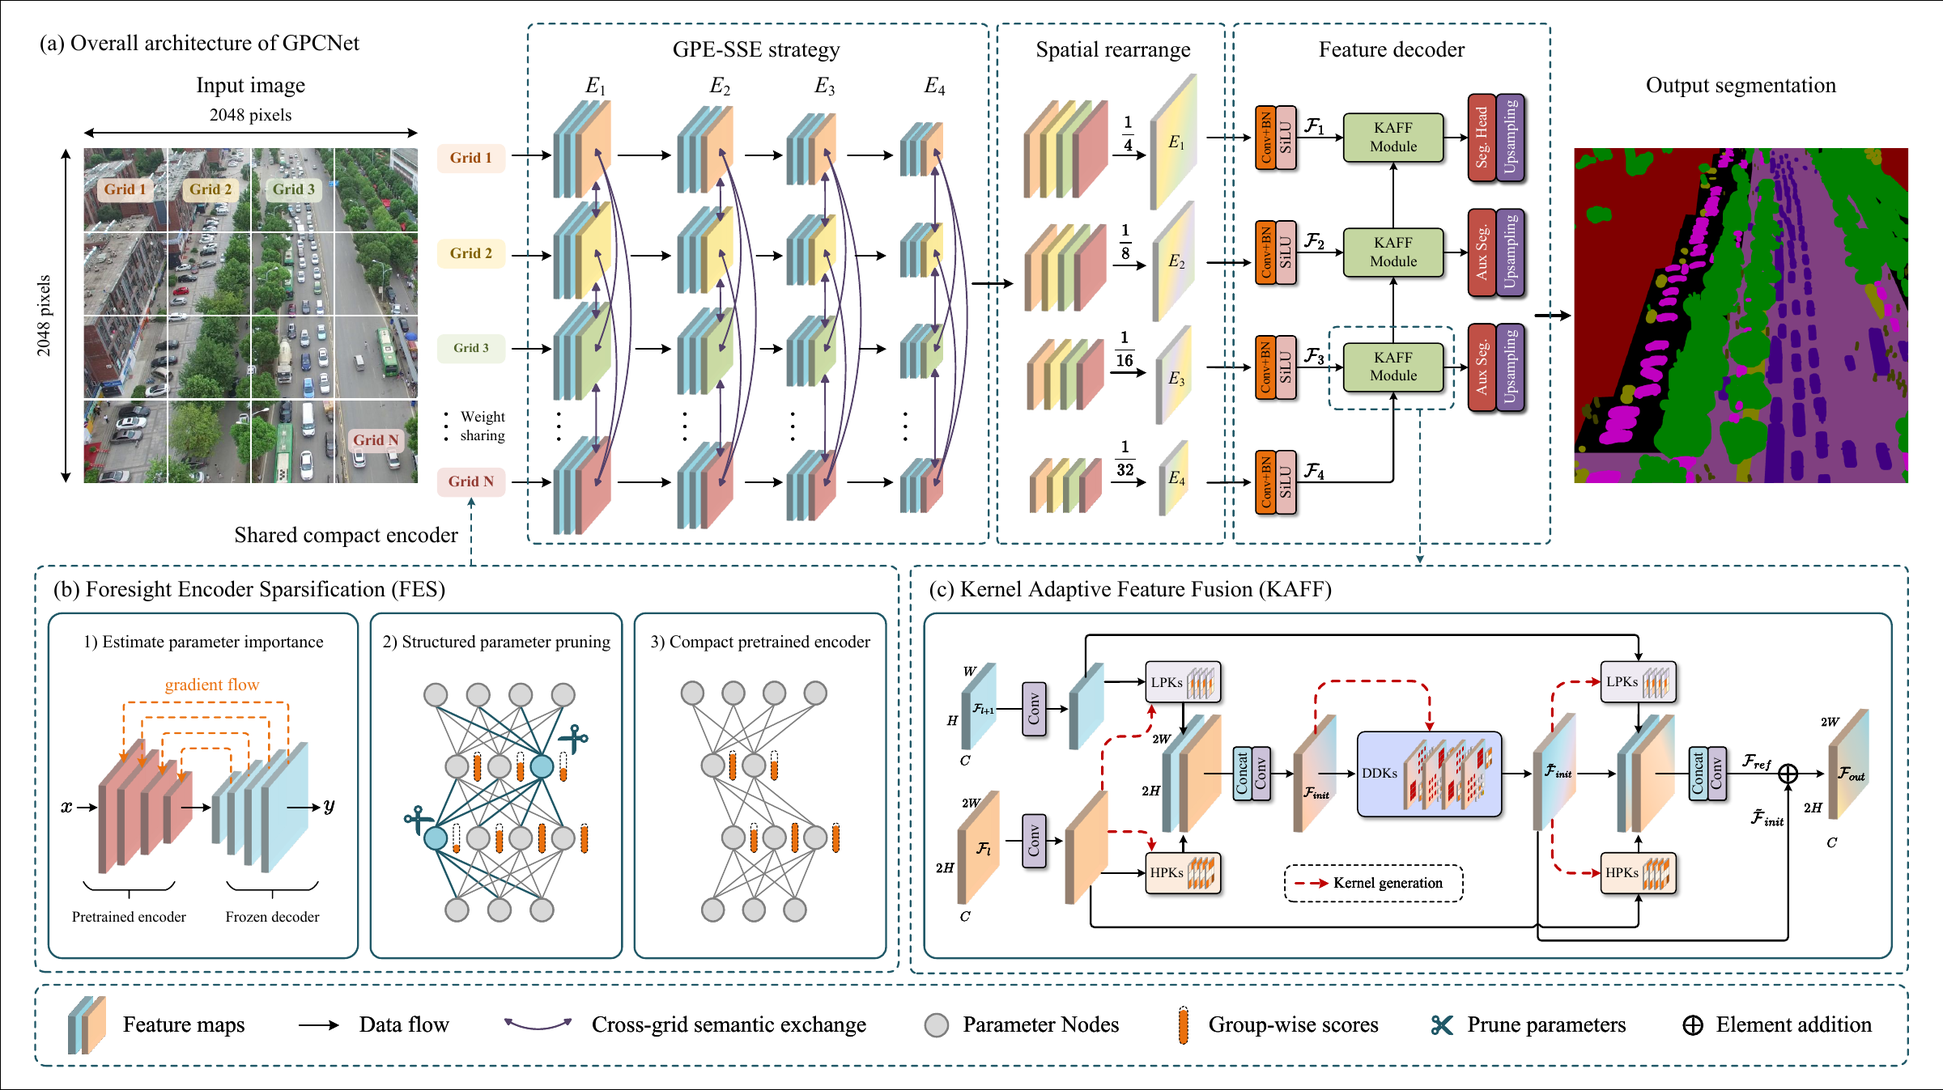
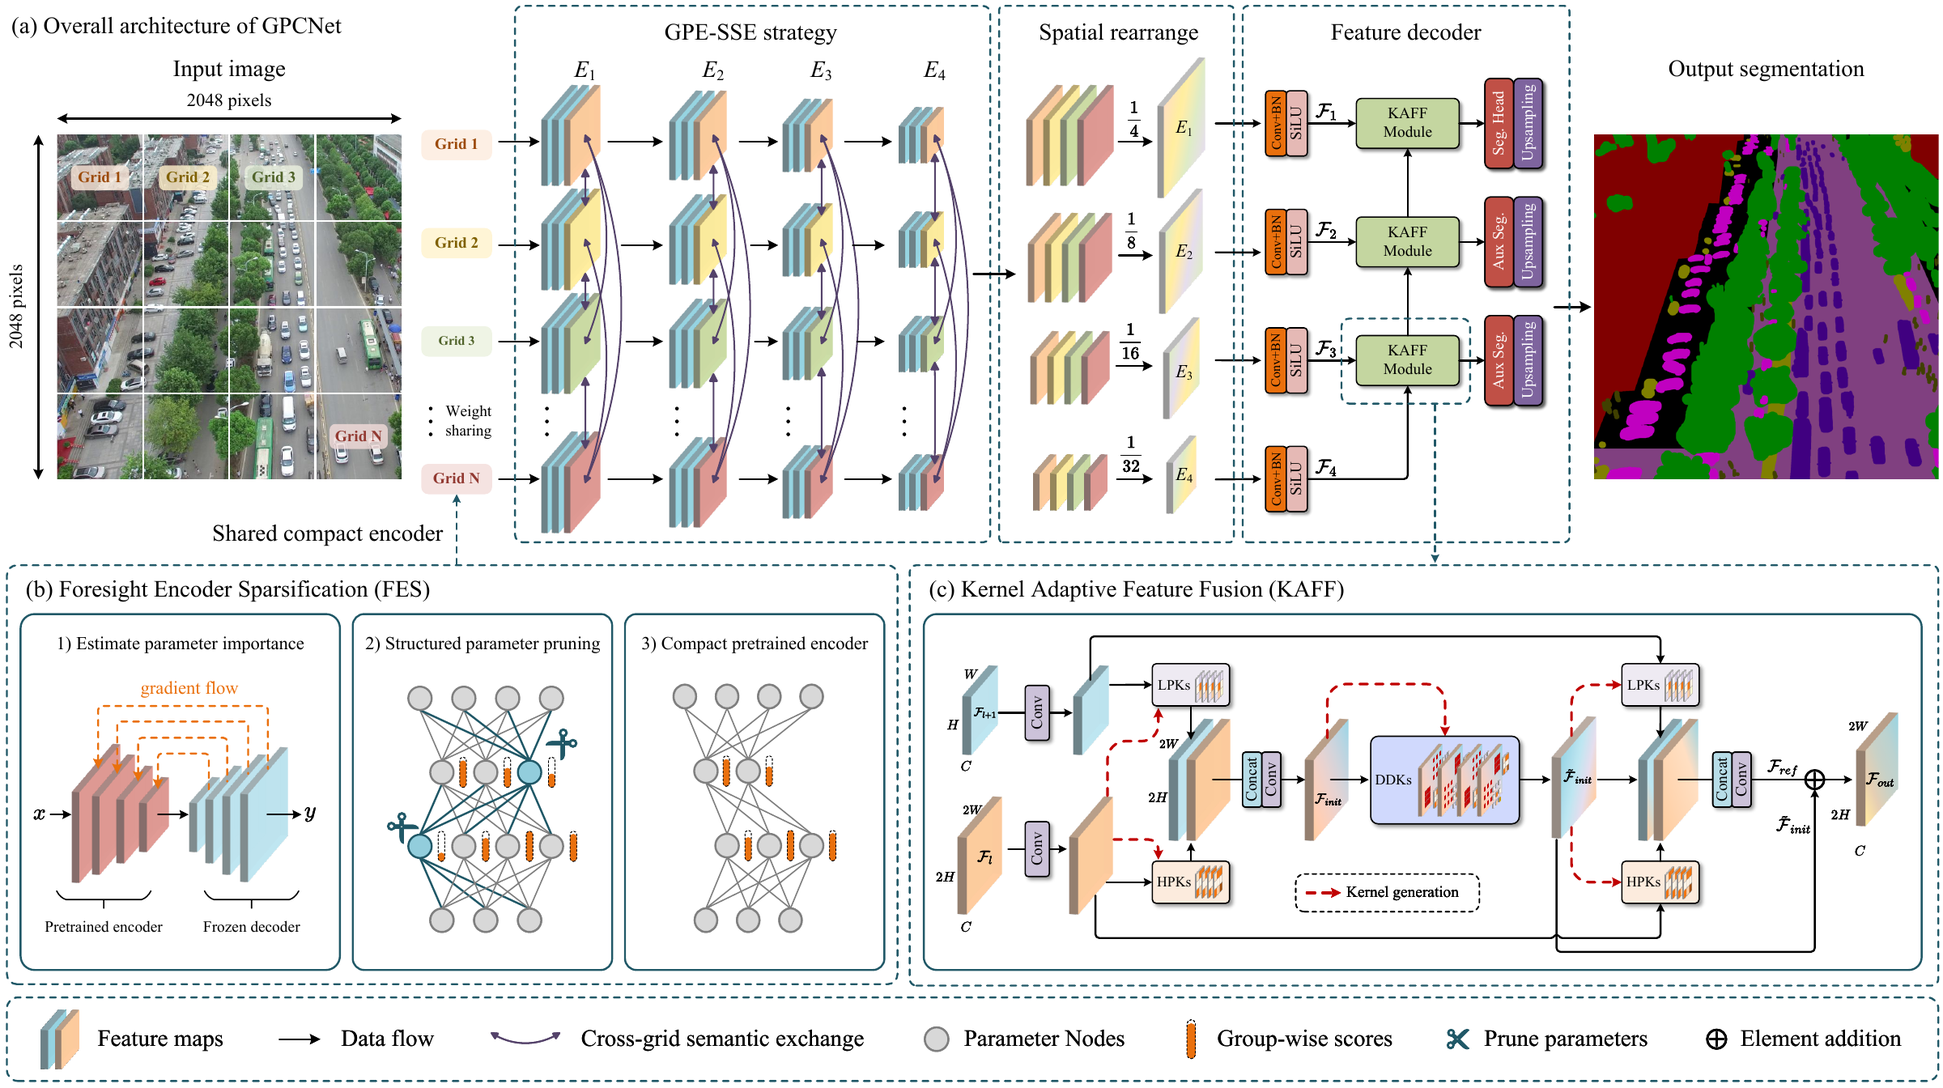
update README

diff --git a/engines/base_engines/basic_engine.py b/engines/base_engines/basic_engine.py
@@ -24,7 +24,7 @@ from torch.utils.data.distributed import DistributedSampler
 import datasets
 import models
 import schedulers
-from datasets import dali_pipeline, transmforms
+from datasets import dali_pipeline, transforms
 from datasets.base_datasets.classification import ClassificationDataset
 from datasets.base_datasets.segmentation import SegmentationDataset
 from tools import get_logger, utils

diff --git a/README.md b/README.md
@@ -2,7 +2,7 @@
 
 Official implementation of **"GPCNet: Grid-Parallel Compact Network With Kernel-Adaptive Feature Fusion for Semantic Segmentation of High-Resolution UAV Imagery"**, published in **IEEE Transactions on Geoscience and Remote Sensing (TGRS), 2026**.
 
-[Paper](https://doi.org/10.1109/TGRS.2026.3725031) · [Environment Setup](ENVIRONMENTS.md) · [Configurations](configs) · [Citation](#-citation)
+[Paper](https://doi.org/10.1109/TGRS.2026.3725031) · [Environment Setup](assets/ENVIRONMENTS.md) · [Datasets and Configurations](assets/DATASETS_AND_CONFIGS.md) · [Citation](#-citation)
 
 ## 📋 Abstract
 
@@ -27,8 +27,6 @@ The paper evaluates four variants:
 | GPCNet-S  | MiT-B1  | 0%               | Train → Test          |
 | GPCNet-SP | MiT-B1  | 40%              | Prune → Train → Test |
 
-The dense and compact variants share the same model class; the compact encoder is constructed by the pruning phase.
-
 ## 💻 Usage
 
 ### Installation
@@ -38,82 +36,21 @@ git clone https://github.com/Memoristor/GPCNet.git
 cd GPCNet
 ```
 
-Follow [ENVIRONMENTS.md](ENVIRONMENTS.md) to prepare the Python, PyTorch, CUDA, and NVIDIA DALI environment. Then build the local spatial variable convolution (SVC) extension in the same environment:
+Follow [ENVIRONMENTS.md](assets/ENVIRONMENTS.md) to set up the environment, then build the spatial variable convolution (SVC) extension:
 
 ```bash
 python -m pip install --no-build-isolation -e ./kernels/spatial_variable_convolution
-python -c "from svc import spatial_variable_convolution; print('SVC extension imported successfully')"
+python - <<'PY'
+from svc import spatial_variable_convolution
+print('SVC extension imported successfully')
+PY
 ```
 
-The SVC operator requires an NVIDIA GPU and a CUDA toolkit with `nvcc` available for compilation. MiT encoders load ImageNet-pretrained weights through `segmentation_models_pytorch`; the weights must be downloaded or available in the local cache.
+SVC requires an NVIDIA GPU and the CUDA toolkit with `nvcc`.
 
-### Dataset Preparation
+### Datasets and Configurations
 
-Download the datasets from their official project pages linked below, then set `dataset.root_path` in the selected YAML configuration to your dataset location. The supplied configurations use the following directories relative to that root:
-
-| Dataset                                                        | Classes | Training images / labels                    | Validation images / labels              | Test images / labels                      |
-| -------------------------------------------------------------- | ------- | ------------------------------------------- | --------------------------------------- | ----------------------------------------- |
-| [UAVid](https://uavid.nl/)                                      | 8       | `uavid_train/seq*/Images` / `Labels`    | `uavid_val/seq*/Images` / `Labels`  | `test_gt/seq*/Images` / `Labels`      |
-| [VDD](https://github.com/RussRobin/VDD)                         | 7       | `train/src` / `train/gt-dec`            | `val/src` / `val/gt-dec`            | `test/src` / `test/gt-dec`            |
-| [FloodNet](https://github.com/BinaLab/FloodNet-Supervised_v1.0) | 10      | `train/org-img` / `train/label-img-dec` | `val/org-img` / `val/label-img-dec` | `test/org-img` / `test/label-img-dec` |
-
-<details>
-<summary>Expected directory layouts</summary>
-
-```text
-UAVid/                         # dataset.root_path
-├── uavid_train/
-│   └── seq*/
-│       ├── Images/*.png
-│       └── Labels/*.png
-├── uavid_val/
-│   └── seq*/
-│       ├── Images/*.png
-│       └── Labels/*.png
-└── test_gt/
-    └── seq*/
-        ├── Images/*.png
-        └── Labels/*.png
-
-VDD/                           # dataset.root_path
-├── train/
-├── val/
-└── test/
-    ├── src/*.JPG              # same layout in each split
-    └── gt-dec/*.png
-
-FloodNet/                      # dataset.root_path
-├── train/
-├── val/
-└── test/
-    ├── org-img/*.jpg          # same layout in each split
-    └── label-img-dec/*.png
-```
-
-</details>
-
-Labels must be **RGB color masks** matching the `PALETTE` in [datasets/uavid.py](datasets/uavid.py), [datasets/vdd.py](datasets/vdd.py), or [datasets/floodnet.py](datasets/floodnet.py). Convert class-index masks to these colors before using the DALI pipelines. Image and label files must correspond in sorted order. The UAVid `test_gt` directory is the layout expected by the local evaluation configuration and requires ground-truth labels; an images-only test release cannot be evaluated with this configuration.
-
-Cropping is performed by the data pipeline. Training uses six overlapping `2048 × 2048` patches per image. Evaluation splits each image into two tiles along its width, resizes each tile to `2048 × 2048`, and stitches the resized-back predictions for evaluation at the original resolution.
-
-### Configurations
-
-Each configuration contains the `prune`, `train`, `valid`, and `test` phases:
-
-| Dataset  | MiT-B1: GPCNet-S / GPCNet-SP                                                                                                                                                  | MiT-B2: GPCNet / GPCNet-P                                                                                                                                                     | Training epochs |
-| -------- | ----------------------------------------------------------------------------------------------------------------------------------------------------------------------------- | ----------------------------------------------------------------------------------------------------------------------------------------------------------------------------- | --------------- |
-| UAVid    | [Config](configs/uavid/gpcnet_mit_b1/gpcnet_mit_b1_2048x2048_bs4_ep40_adamw_lr1e-4_wd_5e-2_semseg_decoder_1e-3_wd_5e-2_cosine_lsce_1e-1_dice_highreso_semseg_uavid.yaml)       | [Config](configs/uavid/gpcnet_mit_b2/gpcnet_mit_b2_2048x2048_bs4_ep40_adamw_lr1e-4_wd_5e-2_semseg_decoder_1e-3_wd_5e-2_cosine_lsce_1e-1_dice_highreso_semseg_uavid.yaml)       | 40              |
-| VDD      | [Config](configs/vdd/gpcnet_mit_b1/gpcnet_mit_b1_2048x2048_bs4_ep40_adamw_lr1e-4_wd_5e-2_semseg_decoder_1e-3_wd_5e-2_cosine_lsce_1e-1_dice_highreso_semseg_vdd.yaml)           | [Config](configs/vdd/gpcnet_mit_b2/gpcnet_mit_b2_2048x2048_bs4_ep40_adamw_lr1e-4_wd_5e-2_semseg_decoder_1e-3_wd_5e-2_cosine_lsce_1e-1_dice_highreso_semseg_vdd.yaml)           | 40              |
-| FloodNet | [Config](configs/floodnet/gpcnet_mit_b1/gpcnet_mit_b1_2048x2048_bs4_ep20_adamw_lr1e-4_wd_5e-2_semseg_decoder_1e-3_wd_5e-2_cosine_lsce_1e-1_dice_highreso_semseg_floodnet.yaml) | [Config](configs/floodnet/gpcnet_mit_b2/gpcnet_mit_b2_2048x2048_bs4_ep20_adamw_lr1e-4_wd_5e-2_semseg_decoder_1e-3_wd_5e-2_cosine_lsce_1e-1_dice_highreso_semseg_floodnet.yaml) | 20              |
-
-Default settings shared by these configurations:
-
-- **Encoder:** ImageNet-pretrained MiT, `4 × 4` grids, semantic exchange enabled at all four stages.
-- **Decoder:** 64 channels, kernel size 3, 4 kernel groups, and two auxiliary segmentation heads.
-- **FES:** 40% target encoder sparsity, 10 pruning iterations, and 8 sampled `1024 × 1024` patches.
-- **Optimization:** AdamW with encoder learning rate `1e-4`, decoder learning rate `1e-3`, weight decay `0.05`, and cosine annealing.
-- **Supervision:** cross-entropy with label smoothing `0.1` plus Dice loss; each auxiliary head has weight `0.4`.
-- **Batch size:** 4 in total across training GPUs. Automatic mixed precision prefers BF16 when supported.
+Follow [Datasets and Configurations](assets/DATASETS_AND_CONFIGS.md) to prepare the data and select a configuration. Set `dataset.root_path` in the YAML file.
 
 ### Prune, Train, and Test
 
@@ -123,7 +60,7 @@ Run commands from the repository root. The wrapper accepts separate GPU lists an
 bash prune_train_test.sh CONFIG SEED PRUNE_GPUS PRUNE_ARGS TRAIN_GPUS TRAIN_ARGS TEST_GPUS TEST_ARGS
 ```
 
-For example, run GPCNet-P on UAVid with one GPU for pruning, four GPUs for training, and one GPU for testing:
+Example for GPCNet-P on UAVid:
 
 ```bash
 CONFIG="configs/uavid/gpcnet_mit_b2/gpcnet_mit_b2_2048x2048_bs4_ep40_adamw_lr1e-4_wd_5e-2_semseg_decoder_1e-3_wd_5e-2_cosine_lsce_1e-1_dice_highreso_semseg_uavid.yaml"
@@ -135,20 +72,18 @@ bash prune_train_test.sh "$CONFIG" "$SEED" \
     0 "-i -w GPCNet"
 ```
 
-| Argument      | Meaning                                                                      |
-| ------------- | ---------------------------------------------------------------------------- |
-| `-i`        | Disable Weights & Biases logging. The examples do not require a W&B service. |
-| `-s`        | Convert BatchNorm to SyncBatchNorm for training.                             |
-| `-w GPCNet` | Set the project name, which also determines the output directory.            |
-| `-r`        | Set the random seed when calling `main.py` directly.                       |
+| Argument      | Meaning                                                |
+| ------------- | ------------------------------------------------------ |
+| `-i`        | Disable Weights & Biases logging.                      |
+| `-s`        | Convert BatchNorm to SyncBatchNorm for training.       |
+| `-w GPCNet` | Set the project name used in the output path.          |
+| `-r`        | Set the random seed when calling `main.py` directly. |
 
-Pruning and standalone full-image evaluation currently require **one GPU**. Training supports multiple GPUs; the configured total batch size must be divisible by their number. For a single-GPU training run, replace `0,1,2,3` with `0`.
-
-The pruning phase saves the compact model as `last_epoch.pth` at epoch 0. Training loads it automatically and updates the checkpoint; with the supplied configurations, the wrapper then evaluates the final `last_epoch.pth`. Each phase reads its checkpoint from the corresponding YAML `reload_pth` field. Keep the same configuration, seed, and project name across these phases. Existing checkpoints are resumed automatically.
+Use **one GPU** for pruning and testing. For training, the total batch size must be divisible by the number of GPUs. Training starts from the pruned model in `last_epoch.pth`. Testing uses the updated checkpoint.
 
 ### Evaluate a Checkpoint
 
-Using the same `CONFIG` and `SEED` as above, set `test.reload_pth` to `best_iou.pth` in the existing YAML configuration to evaluate the checkpoint selected by validation IoU, then run:
+To evaluate the checkpoint with the best validation IoU, set `test.reload_pth: best_iou.pth` in the YAML configuration and run:
 
 ```bash
 CUDA_VISIBLE_DEVICES=0 torchrun --standalone --nproc_per_node=1 \
@@ -156,11 +91,11 @@ CUDA_VISIBLE_DEVICES=0 torchrun --standalone --nproc_per_node=1 \
     -w GPCNet -i
 ```
 
-Use `-p valid` for the validation split and select its checkpoint with `valid.reload_pth`. Set `test.reload_pth` to `last_epoch.pth` to evaluate the final checkpoint. A checkpoint filename is resolved within the experiment's `checkpoints/` directory; an absolute path can also be specified in YAML. The standalone evaluator reconstructs full-image predictions; the validation pass inside training computes metrics on the input tiles.
+Use `-p valid` and `valid.reload_pth` for validation. Checkpoint paths can be absolute or relative to the experiment's `checkpoints/` directory.
 
 ### Train a Dense Variant
 
-Skip the pruning phase to train GPCNet or GPCNet-S. Use a separate project name to keep dense and pruned checkpoints in different directories:
+To train GPCNet or GPCNet-S, skip pruning and use a separate project name:
 
 ```bash
 CUDA_VISIBLE_DEVICES=0,1,2,3 torchrun --standalone --nproc_per_node=4 \
@@ -174,7 +109,7 @@ CUDA_VISIBLE_DEVICES=0 torchrun --standalone --nproc_per_node=1 \
 
 ### Outputs
 
-With the examples above, results are stored under:
+Results are saved to:
 
 ```text
 output/<project>/<dataset_class>/<model_class>/<config_stem>_seed_<seed>/
@@ -191,11 +126,11 @@ output/<project>/<dataset_class>/<model_class>/<config_stem>_seed_<seed>/
         └── predictions/
 ```
 
-`globals.output_root` controls the output root. The supplied configurations save complete model objects to preserve the pruned architecture; loading these checkpoints depends on the corresponding model definitions and module paths.
+Set `globals.output_root` to change the output root.
 
 ## 📈 Experimental Results
 
-The following results are reported in **Tables II–V of the [paper](https://doi.org/10.1109/TGRS.2026.3725031)**. Accuracy is test-set mIoU (%). Efficiency is measured on a single NVIDIA RTX 3090 with BF16 precision, batch size 1, an input resolution of `2048 × 2048`, and the eight-class UAVid output head.
+Results from **Tables II to V of the [paper](https://doi.org/10.1109/TGRS.2026.3725031)**. Accuracy is test mIoU (%). Efficiency is measured on one NVIDIA RTX 3090 with BF16, batch size 1, `2048 × 2048` inputs, and the eight-class UAVid output head.
 
 | Model     | Encoder | Encoder sparsity | UAVid           | VDD             | FloodNet        | Params (M)     | FLOPs (G)        | FPS             |
 | --------- | ------- | ---------------- | --------------- | --------------- | --------------- | -------------- | ---------------- | --------------- |
@@ -204,7 +139,7 @@ The following results are reported in **Tables II–V of the [paper](https://doi
 | GPCNet-S  | MiT-B1  | 0%               | 70.95           | 80.44           | 76.73           | 14.07          | 762.36           | 15.60           |
 | GPCNet-SP | MiT-B1  | 40%              | 70.65           | 79.94           | 76.21           | **8.76** | **493.69** | **18.88** |
 
-For FloodNet, the paper averages metrics over the **nine foreground classes**, excluding Background. The configurations retain all ten output classes and export per-class metrics; average the nine foreground entries when comparing with the table. Metric values in `result.txt` are fractions rather than percentages. The values above are published results, not measurements from a new run of this checkout.
+FloodNet mIoU averages the **nine foreground classes**, excluding Background.
 
 ## 🎓 Citation
 

diff --git a/assets/DATASETS_AND_CONFIGS.md b/assets/DATASETS_AND_CONFIGS.md
@@ -1,0 +1,73 @@
+# Datasets and Configurations
+
+[Back to README](../README.md) · [Environment Setup](ENVIRONMENTS.md)
+
+This guide covers dataset preparation and the supplied experiment configurations. Run the commands in the README from the repository root.
+
+## Dataset Preparation
+
+Download the datasets from their official project pages linked below, then set `dataset.root_path` in the selected YAML configuration to your dataset location. The supplied configurations use the following directories relative to that root:
+
+| Dataset                                                        | Classes | Training images / labels                    | Validation images / labels              | Test images / labels                      |
+| -------------------------------------------------------------- | ------- | ------------------------------------------- | --------------------------------------- | ----------------------------------------- |
+| [UAVid](https://uavid.nl/)                                      | 8       | `uavid_train/seq*/Images` / `Labels`    | `uavid_val/seq*/Images` / `Labels`  | `test_gt/seq*/Images` / `Labels`      |
+| [VDD](https://github.com/RussRobin/VDD)                         | 7       | `train/src` / `train/gt-dec`            | `val/src` / `val/gt-dec`            | `test/src` / `test/gt-dec`            |
+| [FloodNet](https://github.com/BinaLab/FloodNet-Supervised_v1.0) | 10      | `train/org-img` / `train/label-img-dec` | `val/org-img` / `val/label-img-dec` | `test/org-img` / `test/label-img-dec` |
+
+<details>
+<summary>Expected directory layouts</summary>
+
+```text
+UAVid/                         # dataset.root_path
+├── uavid_train/
+│   └── seq*/
+│       ├── Images/*.png
+│       └── Labels/*.png
+├── uavid_val/
+│   └── seq*/
+│       ├── Images/*.png
+│       └── Labels/*.png
+└── test_gt/
+    └── seq*/
+        ├── Images/*.png
+        └── Labels/*.png
+
+VDD/                           # dataset.root_path
+├── train/
+├── val/
+└── test/
+    ├── src/*.JPG              # same layout in each split
+    └── gt-dec/*.png
+
+FloodNet/                      # dataset.root_path
+├── train/
+├── val/
+└── test/
+    ├── org-img/*.jpg          # same layout in each split
+    └── label-img-dec/*.png
+```
+
+</details>
+
+Labels must be **RGB color masks** matching the `PALETTE` in [datasets/uavid.py](../datasets/uavid.py), [datasets/vdd.py](../datasets/vdd.py), or [datasets/floodnet.py](../datasets/floodnet.py). Convert class-index masks to these colors before using the DALI pipelines. Image and label files must correspond in sorted order. The local UAVid evaluation configuration expects a `test_gt` directory containing both images and ground-truth labels. It cannot evaluate a test release that contains only images.
+
+Cropping is performed by the data pipeline. Training uses six overlapping `2048 × 2048` patches per image. Evaluation splits each image into two tiles along its width and resizes each tile to `2048 × 2048`. Predictions are resized back to the original tile dimensions and stitched together for evaluation at the original image resolution.
+
+## Configurations
+
+Each configuration contains the `prune`, `train`, `valid`, and `test` phases:
+
+| Dataset  | MiT-B1: GPCNet-S / GPCNet-SP                                                                                                                                                  | MiT-B2: GPCNet / GPCNet-P                                                                                                                                                     | Training epochs |
+| -------- | ----------------------------------------------------------------------------------------------------------------------------------------------------------------------------- | ----------------------------------------------------------------------------------------------------------------------------------------------------------------------------- | --------------- |
+| UAVid    | [Config](../configs/uavid/gpcnet_mit_b1/gpcnet_mit_b1_2048x2048_bs4_ep40_adamw_lr1e-4_wd_5e-2_semseg_decoder_1e-3_wd_5e-2_cosine_lsce_1e-1_dice_highreso_semseg_uavid.yaml)       | [Config](../configs/uavid/gpcnet_mit_b2/gpcnet_mit_b2_2048x2048_bs4_ep40_adamw_lr1e-4_wd_5e-2_semseg_decoder_1e-3_wd_5e-2_cosine_lsce_1e-1_dice_highreso_semseg_uavid.yaml)       | 40              |
+| VDD      | [Config](../configs/vdd/gpcnet_mit_b1/gpcnet_mit_b1_2048x2048_bs4_ep40_adamw_lr1e-4_wd_5e-2_semseg_decoder_1e-3_wd_5e-2_cosine_lsce_1e-1_dice_highreso_semseg_vdd.yaml)           | [Config](../configs/vdd/gpcnet_mit_b2/gpcnet_mit_b2_2048x2048_bs4_ep40_adamw_lr1e-4_wd_5e-2_semseg_decoder_1e-3_wd_5e-2_cosine_lsce_1e-1_dice_highreso_semseg_vdd.yaml)           | 40              |
+| FloodNet | [Config](../configs/floodnet/gpcnet_mit_b1/gpcnet_mit_b1_2048x2048_bs4_ep20_adamw_lr1e-4_wd_5e-2_semseg_decoder_1e-3_wd_5e-2_cosine_lsce_1e-1_dice_highreso_semseg_floodnet.yaml) | [Config](../configs/floodnet/gpcnet_mit_b2/gpcnet_mit_b2_2048x2048_bs4_ep20_adamw_lr1e-4_wd_5e-2_semseg_decoder_1e-3_wd_5e-2_cosine_lsce_1e-1_dice_highreso_semseg_floodnet.yaml) | 20              |
+
+Default settings shared by these configurations:
+
+- **Encoder:** ImageNet-pretrained MiT, `4 × 4` grids, semantic exchange enabled at all four stages.
+- **Decoder:** 64 channels, kernel size 3, 4 kernel groups, and two auxiliary segmentation heads.
+- **FES:** 40% target encoder sparsity, 10 pruning iterations, and 8 sampled `1024 × 1024` patches.
+- **Optimization:** AdamW with encoder learning rate `1e-4`, decoder learning rate `1e-3`, weight decay `0.05`, and cosine annealing.
+- **Supervision:** cross-entropy with label smoothing `0.1` and Dice loss. Each auxiliary head has weight `0.4`.
+- **Batch size:** 4 in total across training GPUs. Automatic mixed precision prefers BF16 when supported.

diff --git a/assets/ENVIRONMENTS.md b/assets/ENVIRONMENTS.md
@@ -210,4 +210,4 @@ def mamba_inner_fn_no_out_proj(
 
 Install selective_scan
 
-Follow the instructions at https://github.com/MzeroMiko/VMamba to install selective_scan from the kernel directory. Only `oflex` is installed by default; modify the `MODES` setting in `setup.py` to install the components you need.
+Follow the instructions at https://github.com/MzeroMiko/VMamba to install selective_scan from the kernel directory. Only `oflex` is installed by default. Modify the `MODES` setting in `setup.py` to install the components you need.
